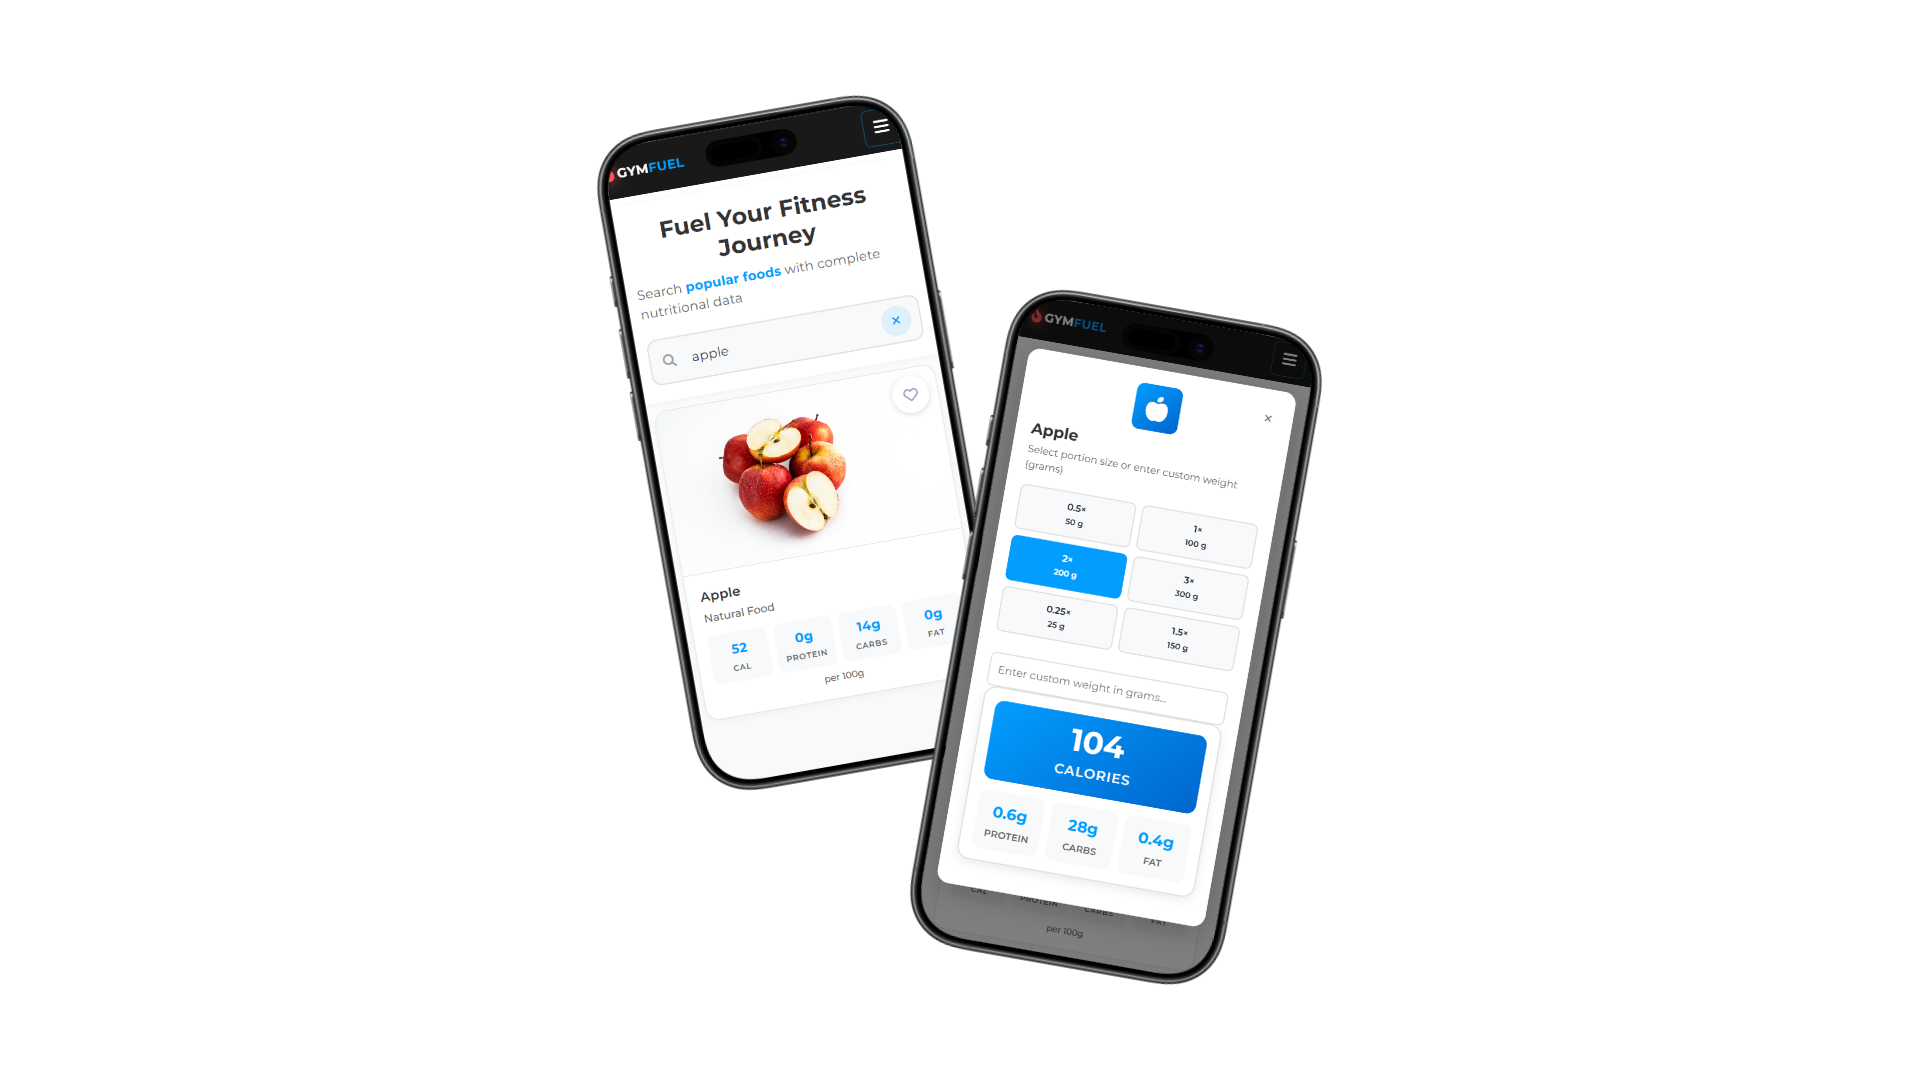
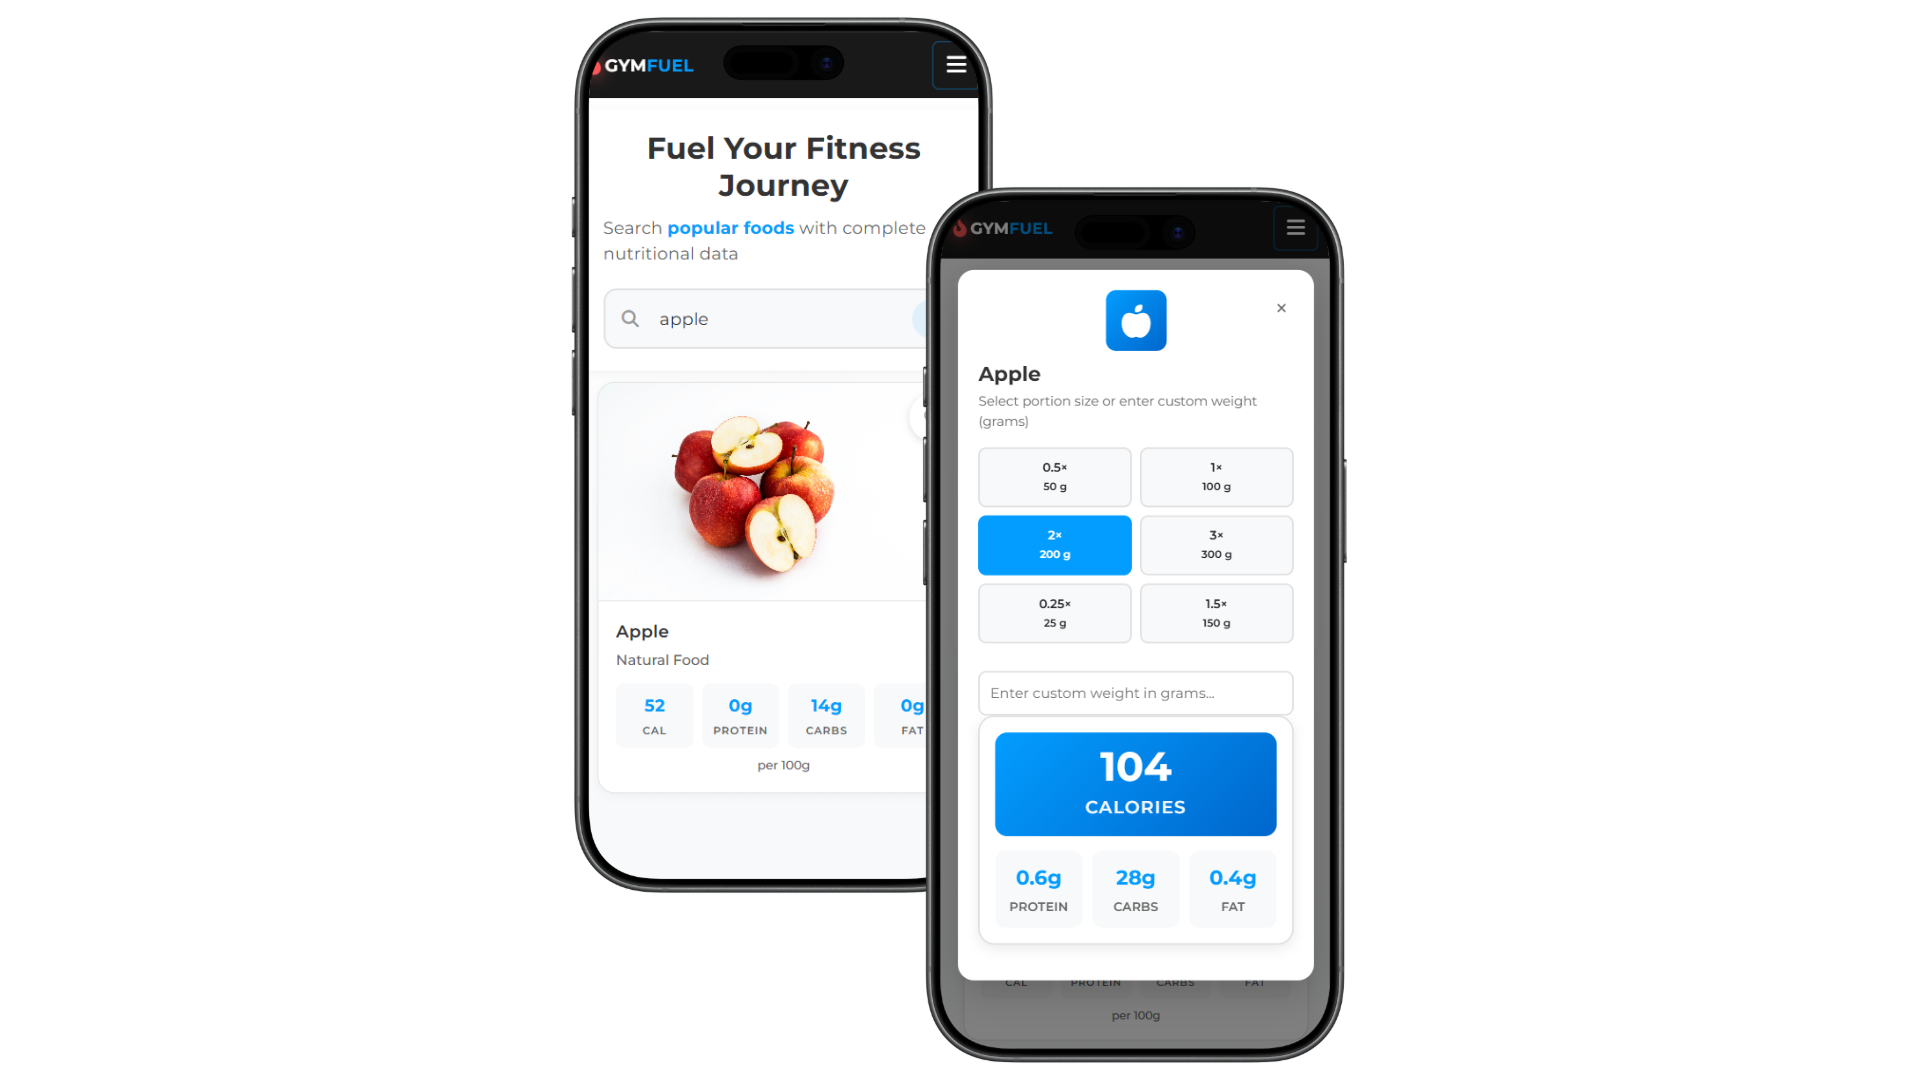
adjust panel width

Changed region(s): [[0.2812, 0.0, 0.7188, 1.0]]

diff --git a/css/main.css b/css/main.css
@@ -37,6 +37,11 @@ form {
 	text-align: center;
 	text-transform: uppercase;
 }
+
+.simple-cards-title {
+	font-size: 1.25rem;
+	font-weight: 600;
+}
 .summary-title {
 	text-align: center;
 	text-transform: uppercase;
@@ -2277,6 +2282,10 @@ a:hover {
 	justify-content: center;
 }
 
+.why-panel-4 .why-panel-visual {
+	flex: 0 0 400px;
+}
+
 .why-panel-icon-wrapper {
 	width: 360px;
 	height: 360px;
@@ -2290,8 +2299,8 @@ a:hover {
 }
 
 .why-panel-4 .why-panel-icon-wrapper {
-	width: 500px;
-	height: 500px;
+	width: 600px;
+	height: 400px;
 }
 
 .why-panel-icon-wrapper i {
@@ -2306,9 +2315,13 @@ a:hover {
 }
 
 .why-panel-4 .why-panel-icon-wrapper img {
-	width: 170%;
-	height: 170%;
+	width: 150%;
+	height: 150%;
 	object-fit: contain;
+}
+
+.why-panel-3 .why-panel-image {
+	border-radius: 20px;
 }
 
 .why-panel-icon-wrapper--image {
@@ -2337,8 +2350,13 @@ a:hover {
 	}
 
 	.why-panel-icon-wrapper {
-		width: 150px;
-		height: 150px;
+		width: 280px;
+		height: 280px;
+	}
+	
+	.why-panel-icon-wrapper img {
+		width: 100%;
+		height: 100%;
 	}
 
 	.why-panel-icon-wrapper i {
@@ -2366,8 +2384,13 @@ a:hover {
 	}
 
 	.why-panel-icon-wrapper {
-		width: 120px;
-		height: 120px;
+		width: 280px;
+		height: 280px;
+	}
+	
+	.why-panel-icon-wrapper img {
+		width: 100%;
+		height: 100%;
 	}
 
 	.why-panel-icon-wrapper i {
@@ -2393,8 +2416,13 @@ a:hover {
 	}
 
 	.why-panel-icon-wrapper {
-		width: 100px;
-		height: 100px;
+		width: 260px;
+		height: 260px;
+	}
+	
+	.why-panel-icon-wrapper img {
+		width: 100%;
+		height: 100%;
 	}
 
 	.why-panel-icon-wrapper i {

diff --git a/index.php b/index.php
@@ -49,9 +49,9 @@ require_once 'includes/config.php';
                         <li class="nav-item"><a class="nav-link" href="auth/logout.php">Logout</a></li>
                     <?php else: ?>
                         <li class="nav-item"><a class="nav-link active" href="#home">Home</a></li>
+                        <li class="nav-item"><a class="nav-link" href="#why-gymfuel">Why GymFuel?</a></li>
                         <li class="nav-item"><a class="nav-link" href="#aboutus">About us</a></li>
                         <li class="nav-item"><a class="nav-link" href="#features">Offer</a></li>
-                        <li class="nav-item"><a class="nav-link" href="#achievements">Achievements</a></li>
                         <li class="nav-item"><a class="nav-link" href="./search_products.php">Search Products</a></li>
                         <li class="nav-item"><a class="nav-link" href="bmi_calculator.php">Calculators</a></li>
                         <li class="nav-item"><a class="nav-link" href="auth/login.php">Login</a></li>
@@ -72,6 +72,74 @@ require_once 'includes/config.php';
         <a href="#aboutus"><i class="fa-solid fa-chevron-down"></i></a>
     </header>
     <main>
+        <section id="why-gymfuel" class="why-gymfuel-section py-5">
+            <div class="container">
+                <div class="why-gymfuel-header text-center mb-5">
+                    <h2 class="section-title mb-3">Why use GymFuel?</h2>
+                    <div class="underline mx-auto mb-4"></div>
+                    <p class="why-gymfuel-subtitle text-muted">Our comprehensive nutrition tracking tools will help you</p>
+                </div>
+
+                <div class="why-gymfuel-panels">
+                    <div class="why-panel why-panel-1">
+                        <div class="why-panel-content">
+                            <div class="why-panel-text">
+                                <h3 class="why-panel-heading">Track Your Macros & Nutrients</h3>
+                                <p class="why-panel-description">Monitor your protein, carbs, fats, and calories with detailed food logging. See exactly what you're eating and make informed decisions to optimize your nutrition.</p>
+                            </div>
+                            <div class="why-panel-visual">
+                                <div class="why-panel-icon-wrapper why-panel-icon-wrapper--image">
+                                    <img src="./img/ss1.png" alt="Nutrition tracking highlight" class="why-panel-image">
+                                </div>
+                            </div>
+                        </div>
+                    </div>
+
+                    <div class="why-panel why-panel-2">
+                        <div class="why-panel-content">
+                            <div class="why-panel-text">
+                                <h3 class="why-panel-heading">Reach & Maintain Your Goal Weight</h3>
+                                <p class="why-panel-description">Monitor your food intake with detailed food journaling, verified nutrition information, and personalized calorie targets to keep yourself accountable and achieve your fitness goals.</p>
+                            </div>
+                            <div class="why-panel-visual">
+                                <div class="why-panel-icon-wrapper why-panel-icon-wrapper--image">
+                                    <img src="./img/ss2.png" alt="Goal weight tracking" class="why-panel-image">
+                                </div>
+                            </div>
+                        </div>
+                    </div>
+
+                    <div class="why-panel why-panel-3">
+                        <div class="why-panel-content">
+                            <div class="why-panel-text">
+                                <h3 class="why-panel-heading">Get a Complete View of Your Health</h3>
+                                <p class="why-panel-description">Track your daily nutrition, monitor your BMI, calculate your BMR and TDEE, and visualize your progress with comprehensive analytics to understand your health journey.</p>
+                            </div>
+                            <div class="why-panel-visual">
+                                <div class="why-panel-icon-wrapper why-panel-icon-wrapper--image">
+                                    <img src="./img/ss3.png" alt="Complete health view" class="why-panel-image">
+                                </div>
+                            </div>
+                        </div>
+                    </div>
+
+                    <div class="why-panel why-panel-4">
+                        <div class="why-panel-content">
+                            <div class="why-panel-text">
+                                <h3 class="why-panel-heading">Gain a Trustworthy Companion</h3>
+                                <p class="why-panel-description">We're proud to offer accurate nutrition information within a secure framework to keep your data safe. We encrypt all data, uphold industry best practices, and enforce strict access controls.</p>
+                            </div>
+                            <div class="why-panel-visual">
+                                <div class="why-panel-icon-wrapper why-panel-icon-wrapper--image">
+                                    <img src="./img/ss4.png" alt="Trustworthy companion" class="why-panel-image">
+                                </div>
+                            </div>
+                        </div>
+                    </div>
+                </div>
+            </div>
+        </section>
+
         <section id="aboutus" class="aboutus-new py-5">
             <div class="container">
                 <div class="aboutus-header text-center mb-5">
@@ -264,6 +332,12 @@ require_once 'includes/config.php';
 
         <section class="simple-cards-section py-5 bg-light">
             <div class="container">
+                <div class="text-center mb-5">
+                    <h2 class="section-title mb-3">Register now</h2>
+                    <div class="underline mx-auto mb-4"></div>
+                    <p class="simple-cards-title mb-3">Whether you're counting calories, macros, or micronutrients, you can count on us</p>
+                    <a href="auth/register.php" class="btn btn-primary btn-lg mt-3 text-uppercase">Sign up</a>
+                </div>
                 <div class="row g-4 justify-content-center simple-cards-row">
                     <div class="col-lg col-md-6 col-sm-6">
                         <div class="simple-card simple-card-1">
@@ -323,164 +397,6 @@ require_once 'includes/config.php';
             </div>
         </section>
 
-        <section id="why-gymfuel" class="why-gymfuel-section py-5">
-            <div class="container">
-                <div class="why-gymfuel-header text-center mb-5">
-                    <h2 class="section-title mb-3">Why use GymFuel?</h2>
-                    <div class="underline mx-auto mb-4"></div>
-                    <p class="why-gymfuel-subtitle text-muted">Our comprehensive nutrition tracking tools will help you</p>
-                </div>
-
-                <div class="why-gymfuel-panels">
-                    <div class="why-panel why-panel-1">
-                        <div class="why-panel-content">
-                            <div class="why-panel-text">
-                                <h3 class="why-panel-heading">Track Your Macros & Nutrients</h3>
-                                <p class="why-panel-description">Monitor your protein, carbs, fats, and calories with detailed food logging. See exactly what you're eating and make informed decisions to optimize your nutrition.</p>
-                            </div>
-                            <div class="why-panel-visual">
-                                <div class="why-panel-icon-wrapper why-panel-icon-wrapper--image">
-                                    <img src="./img/ss1.png" alt="Nutrition tracking highlight" class="why-panel-image">
-                                </div>
-                            </div>
-                        </div>
-                    </div>
-
-                    <div class="why-panel why-panel-2">
-                        <div class="why-panel-content">
-                            <div class="why-panel-text">
-                                <h3 class="why-panel-heading">Reach & Maintain Your Goal Weight</h3>
-                                <p class="why-panel-description">Monitor your food intake with detailed food journaling, verified nutrition information, and personalized calorie targets to keep yourself accountable and achieve your fitness goals.</p>
-                            </div>
-                            <div class="why-panel-visual">
-                                <div class="why-panel-icon-wrapper why-panel-icon-wrapper--image">
-                                    <img src="./img/ss2.png" alt="Goal weight tracking" class="why-panel-image">
-                                </div>
-                            </div>
-                        </div>
-                    </div>
-
-                    <div class="why-panel why-panel-3">
-                        <div class="why-panel-content">
-                            <div class="why-panel-text">
-                                <h3 class="why-panel-heading">Get a Complete View of Your Health</h3>
-                                <p class="why-panel-description">Track your daily nutrition, monitor your BMI, calculate your BMR and TDEE, and visualize your progress with comprehensive analytics to understand your health journey.</p>
-                            </div>
-                            <div class="why-panel-visual">
-                                <div class="why-panel-icon-wrapper why-panel-icon-wrapper--image">
-                                    <img src="./img/ss3.png" alt="Complete health view" class="why-panel-image">
-                                </div>
-                            </div>
-                        </div>
-                    </div>
-
-                    <div class="why-panel why-panel-4">
-                        <div class="why-panel-content">
-                            <div class="why-panel-text">
-                                <h3 class="why-panel-heading">Gain a Trustworthy Companion</h3>
-                                <p class="why-panel-description">We're proud to offer accurate nutrition information within a secure framework to keep your data safe. We encrypt all data, uphold industry best practices, and enforce strict access controls.</p>
-                            </div>
-                            <div class="why-panel-visual">
-                                <div class="why-panel-icon-wrapper why-panel-icon-wrapper--image">
-                                    <img src="./img/ss4.png" alt="Trustworthy companion" class="why-panel-image">
-                                </div>
-                            </div>
-                        </div>
-                    </div>
-                </div>
-            </div>
-        </section>
-
-        <section id="achievements" class="success-stories-new py-5">
-            <div class="container">
-                <div class="success-stories-header text-center mb-5">
-                    <h2 class="section-title mb-3">Success Stories</h2>
-                    <div class="underline mx-auto mb-4"></div>
-                    <p class="success-stories-subtitle text-muted">Real transformations from real people</p>
-                </div>
-                
-                <div class="row g-4">
-                    <div class="col-lg-4 col-md-6">
-                        <article class="testimonial-clean">
-                            <div class="testimonial-header-clean">
-                                <div class="testimonial-avatar-clean">
-                                    <img src="./img/person1.jpg" alt="Sarah" loading="lazy">
-                                </div>
-                                <div class="testimonial-info-clean">
-                                    <h4 class="testimonial-name-clean">Sarah M.</h4>
-                                    <div class="testimonial-result-clean">-25kg in 6 months</div>
-                                </div>
-                            </div>
-                            <div class="testimonial-body-clean">
-                                <p class="testimonial-text-clean">"Finally found something that actually works. Tracking meals became a habit, not a chore. Best part? I can still enjoy my favorite foods."</p>
-                            </div>
-                            <div class="testimonial-footer-clean">
-                                <div class="testimonial-rating-clean">
-                                    <i class="fa-solid fa-star"></i>
-                                    <i class="fa-solid fa-star"></i>
-                                    <i class="fa-solid fa-star"></i>
-                                    <i class="fa-solid fa-star"></i>
-                                    <i class="fa-solid fa-star"></i>
-                                </div>
-                            </div>
-                        </article>
-                    </div>
-
-                    <div class="col-lg-4 col-md-6">
-                        <article class="testimonial-clean">
-                            <div class="testimonial-header-clean">
-                                <div class="testimonial-avatar-clean">
-                                    <img src="./img/person2.jpg" alt="Alex & Jordan" loading="lazy">
-                                </div>
-                                <div class="testimonial-info-clean">
-                                    <h4 class="testimonial-name-clean">Alex & Jordan</h4>
-                                    <div class="testimonial-result-clean">-35kg combined</div>
-                                </div>
-                            </div>
-                            <div class="testimonial-body-clean">
-                                <p class="testimonial-text-clean">"We tried everything before this. What made the difference? Seeing our progress together. The dashboard keeps us both accountable and motivated."</p>
-                            </div>
-                            <div class="testimonial-footer-clean">
-                                <div class="testimonial-rating-clean">
-                                    <i class="fa-solid fa-star"></i>
-                                    <i class="fa-solid fa-star"></i>
-                                    <i class="fa-solid fa-star"></i>
-                                    <i class="fa-solid fa-star"></i>
-                                    <i class="fa-solid fa-star"></i>
-                                </div>
-                            </div>
-                        </article>
-                    </div>
-
-                    <div class="col-lg-4 col-md-6">
-                        <article class="testimonial-clean">
-                            <div class="testimonial-header-clean">
-                                <div class="testimonial-avatar-clean">
-                                    <img src="./img/person3.jpg" alt="David" loading="lazy">
-                                </div>
-                                <div class="testimonial-info-clean">
-                                    <h4 class="testimonial-name-clean">David T.</h4>
-                                    <div class="testimonial-result-clean testimonial-result-muscle-clean">+12kg muscle gain</div>
-                                </div>
-                            </div>
-                            <div class="testimonial-body-clean">
-                                <p class="testimonial-text-clean">"Bulking was always a guessing game. Now I hit my protein goals every day. The macro breakdown is exactly what I needed to see real gains."</p>
-                            </div>
-                            <div class="testimonial-footer-clean">
-                                <div class="testimonial-rating-clean">
-                                    <i class="fa-solid fa-star"></i>
-                                    <i class="fa-solid fa-star"></i>
-                                    <i class="fa-solid fa-star"></i>
-                                    <i class="fa-solid fa-star"></i>
-                                    <i class="fa-solid fa-star"></i>
-                                </div>
-                            </div>
-                        </article>
-                    </div>
-                </div>
-            </div>
-        </section>
-
         <footer class="bg-dark text-white py-5">
             <div class="container">
                 <div class="row">
@@ -500,7 +416,6 @@ require_once 'includes/config.php';
                         <ul class="list-unstyled">
                             <li class="mb-2"><a href="#home" class="text-white-50 text-decoration-none">Home</a></li>
                             <li class="mb-2"><a href="#aboutus" class="text-white-50 text-decoration-none">About Us</a></li>
-                            <li class="mb-2"><a href="#achievements" class="text-white-50 text-decoration-none">Success Stories</a></li>
                             <li class="mb-2"><a href="#features" class="text-white-50 text-decoration-none">Features</a></li>
                         </ul>
                     </div>
